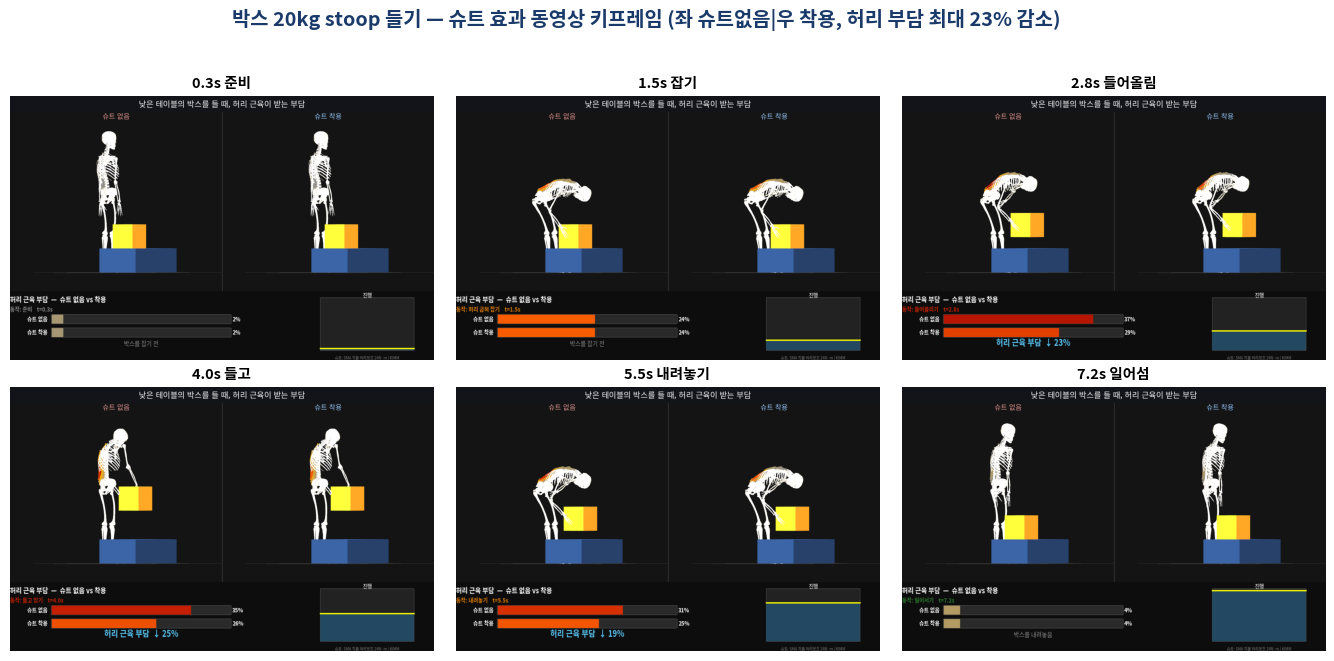
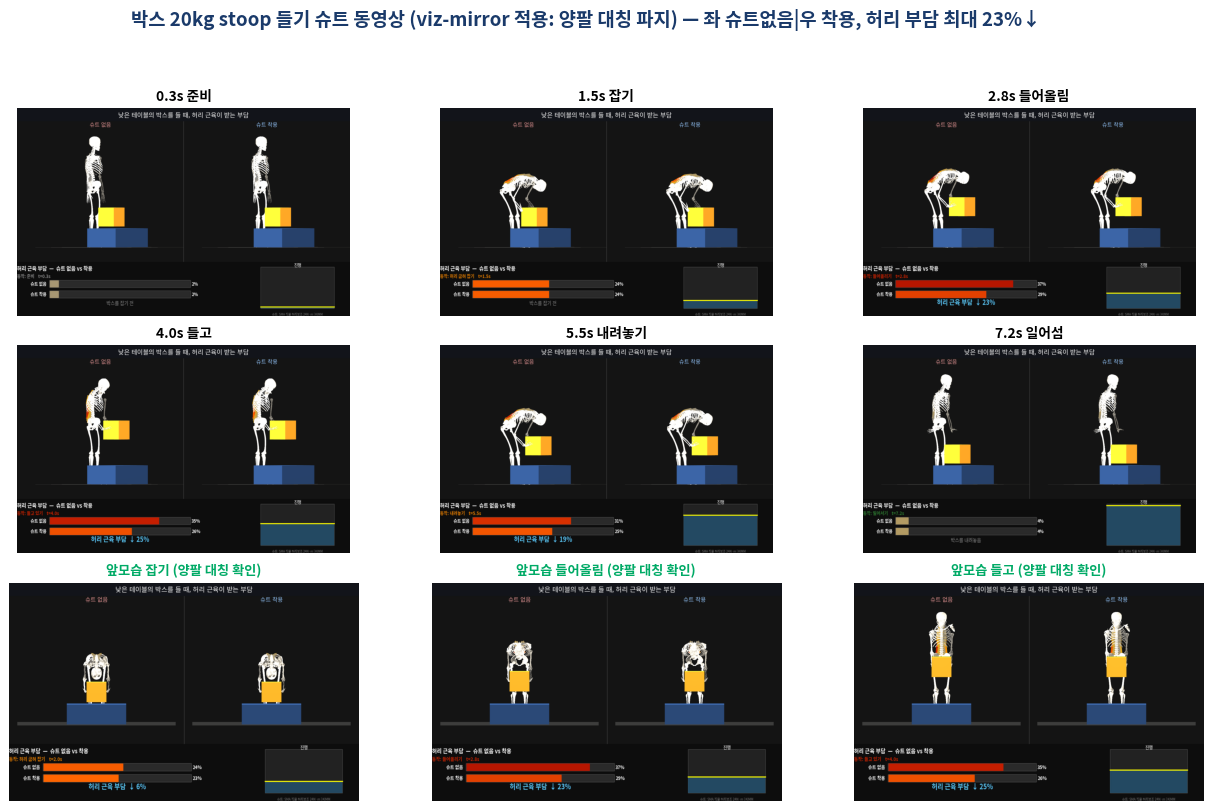
fix: 동영상 viz-mirror + 손목해제 적용 (왼팔 따로놀기 회귀 수정)
- 회귀: 일반인 동영상(PyVista 경로)에 Blender 검증렌더의 viz-mirror/손목해제가 누락 → 모델 원본 결함 왼팔(오른팔 복사본) 그대로 렌더돼 왼팔이 박스와 무관하게 따로 놈
- 수정1 viz-mirror: render_3d에서 모델 좌팔 mesh(humerus/ulna/radius/hand_L) skip + 우팔 mesh z=0 반사→좌팔. 양팔 대칭 파지
- 수정2 손목해제: setup서 pro_sup_r/wrist_flex_r/wrist_dev_r 잠금해제 → .mot palm 방향 적용(우팔, 좌팔은 미러)
- knee fix는 PyVista가 OpenSim 변환 직접사용이라 자동 적용됨(MuSkeMo collapse 없음). .osim 불변 → SO/ES 정량 0 영향
- 독립검증 PASS: 앞모습+3/4각 여러시점 양팔 대칭 파지 확인, 왼팔 따로놀기 해소. 박스 손따라·슈트효과 유지
- 재렌더 동영상 /data/opensim_results/box_stoop_suit_video.mp4. 키프레임 grid에 앞모습 대칭행 추가
- 교훈: 새 렌더 경로마다 viz-mirror/손목해제/knee-fix 적용 점검 필요(경로별 수정 누락 방지)

Generated with Claude Code

diff --git a/opensim_analysis/thoracolumbar_fb/scripts/viz_knee_fix/render_box_stoop_video.py b/opensim_analysis/thoracolumbar_fb/scripts/viz_knee_fix/render_box_stoop_video.py
@@ -27,6 +27,7 @@ FLOOR=-0.905; EDGE=0.18; TABLE_H=0.30; TOPb=FLOOR+TABLE_H; BOX=0.30; HALF=BOX/2
 GRIP_START,GRIP_END=1.9,6.0
 ES_CMAP=LinearSegmentedColormap.from_list('es',[(0,'#909090'),(0.25,'#FFB300'),(0.5,'#FF6600'),(0.75,'#CC2200'),(1,'#8B0000')],N=256)
 ES_CLIM=0.45   # color ceiling (ES peak ~37% at load -> good spread)
+CAM=[(2.2,0.0,3.0),(0.12,-0.02,0.0),(0.0,1.0,0.0)]   # default 3-quarter; front view = [(3.2,0.0,0.0),(0.12,-0.02,0),(0,1,0)]
 def is_es(n): return n.startswith(('IL_','LTpT_','LTpL_'))
 # ---- model / motion / SO ----
 def transform_mat4(T):
@@ -94,17 +95,26 @@ def render_3d(model,state,meshes,acts_off,acts_on,box_c,out_png):
         if mi['frame'] not in fc:
             try: fc[mi['frame']]=model.getComponent(mi['frame'])
             except Exception: pass
-    cam=[(2.2,0.0,3.0),(0.12,-0.02,0.0),(0.0,1.0,0.0)]   # focal centered for full standing height
+    cam=CAM   # 3-quarter (default) or front (verification), module-level so it can be overridden
+    def arm_side(fp):
+        if any(k in fp for k in ('humerus_R','ulna_R','radius_R','hand_R')): return 'R'
+        if any(k in fp for k in ('humerus_L','ulna_L','radius_L','hand_L')): return 'L'
+        return None
     for col,(acts,lab) in enumerate([(acts_off,'OFF'),(acts_on,'ON')]):
         pl.subplot(0,col)
         for mi in meshes:
             if mi['frame'] not in fc: continue
+            sd=arm_side(mi['frame'])
+            if sd=='L': continue   # VIZ-MIRROR: model left arm is a defective right-copy -> skip, draw z-mirror of right instead
             try: surf=pv.read(mi['path'])
             except Exception: continue
             sx,sy,sz=mi['scale']
             if (sx,sy,sz)!=(1,1,1): surf=surf.scale([sx,sy,sz],inplace=False)
             surf=surf.transform(transform_mat4(fc[mi['frame']].getTransformInGround(state)),inplace=False)
             pl.add_mesh(surf,color='#E8E0D0',opacity=0.96,smooth_shading=True,specular=0.3,specular_power=15)
+            if sd=='R':   # draw z=0 mirror of right arm as the left arm (correct bilateral grip)
+                mir=surf.reflect((0,0,1),point=(0,0,0))
+                pl.add_mesh(mir,color='#E8E0D0',opacity=0.96,smooth_shading=True,specular=0.3,specular_power=15,culling=False)
         pd=muscle_pd(model,state,acts)
         if pd is not None: pl.add_mesh(pd,scalars='a',cmap=ES_CMAP,clim=[0,ES_CLIM],line_width=5.0,show_scalar_bar=False)
         # floor + table (blue) + box (orange)
@@ -180,7 +190,10 @@ def render_frame(t,out_png,ctx,pfx='f'):
         except OSError: pass
     return eo,en
 def setup():
-    model=osim.Model(MODEL); state=model.initSystem(); meshes=collect_meshes(model)
+    model=osim.Model(MODEL); state=model.initSystem()
+    for n in ('pro_sup_r','wrist_flex_r','wrist_dev_r'):   # unlock right wrist so .mot palm orientation applies (mirrored to left)
+        if model.getCoordinateSet().contains(n): model.getCoordinateSet().get(n).setLocked(state,False)
+    model.assemble(state); meshes=collect_meshes(model)
     mot=osim.TimeSeriesTable(MOT); to,lo,do=load_so(SO_OFF); tn,ln,dn=load_so(SO_ON)
     # box table position = box at grasp moment
     apply_motion(model,state,mot,GRIP_START); box_table=box_center(hand_pos(model,state),GRIP_START,[EDGE+0.16,TOPb+HALF,0])
